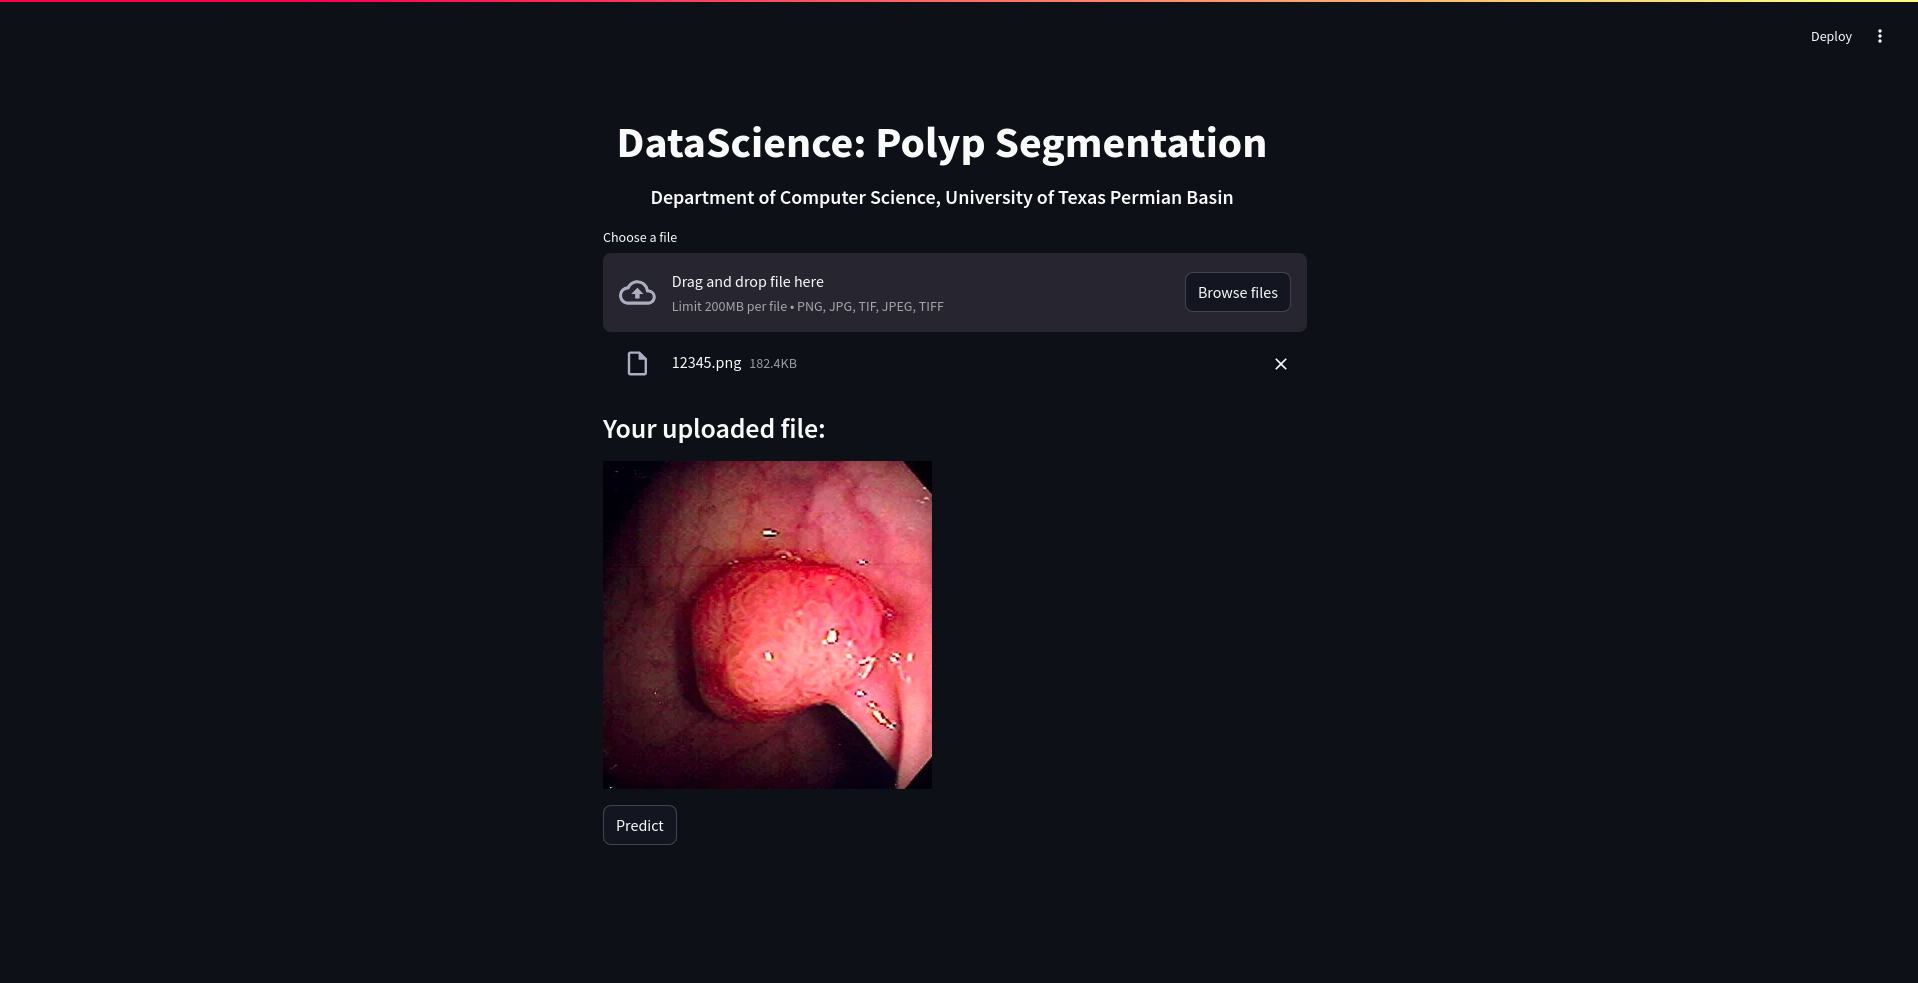
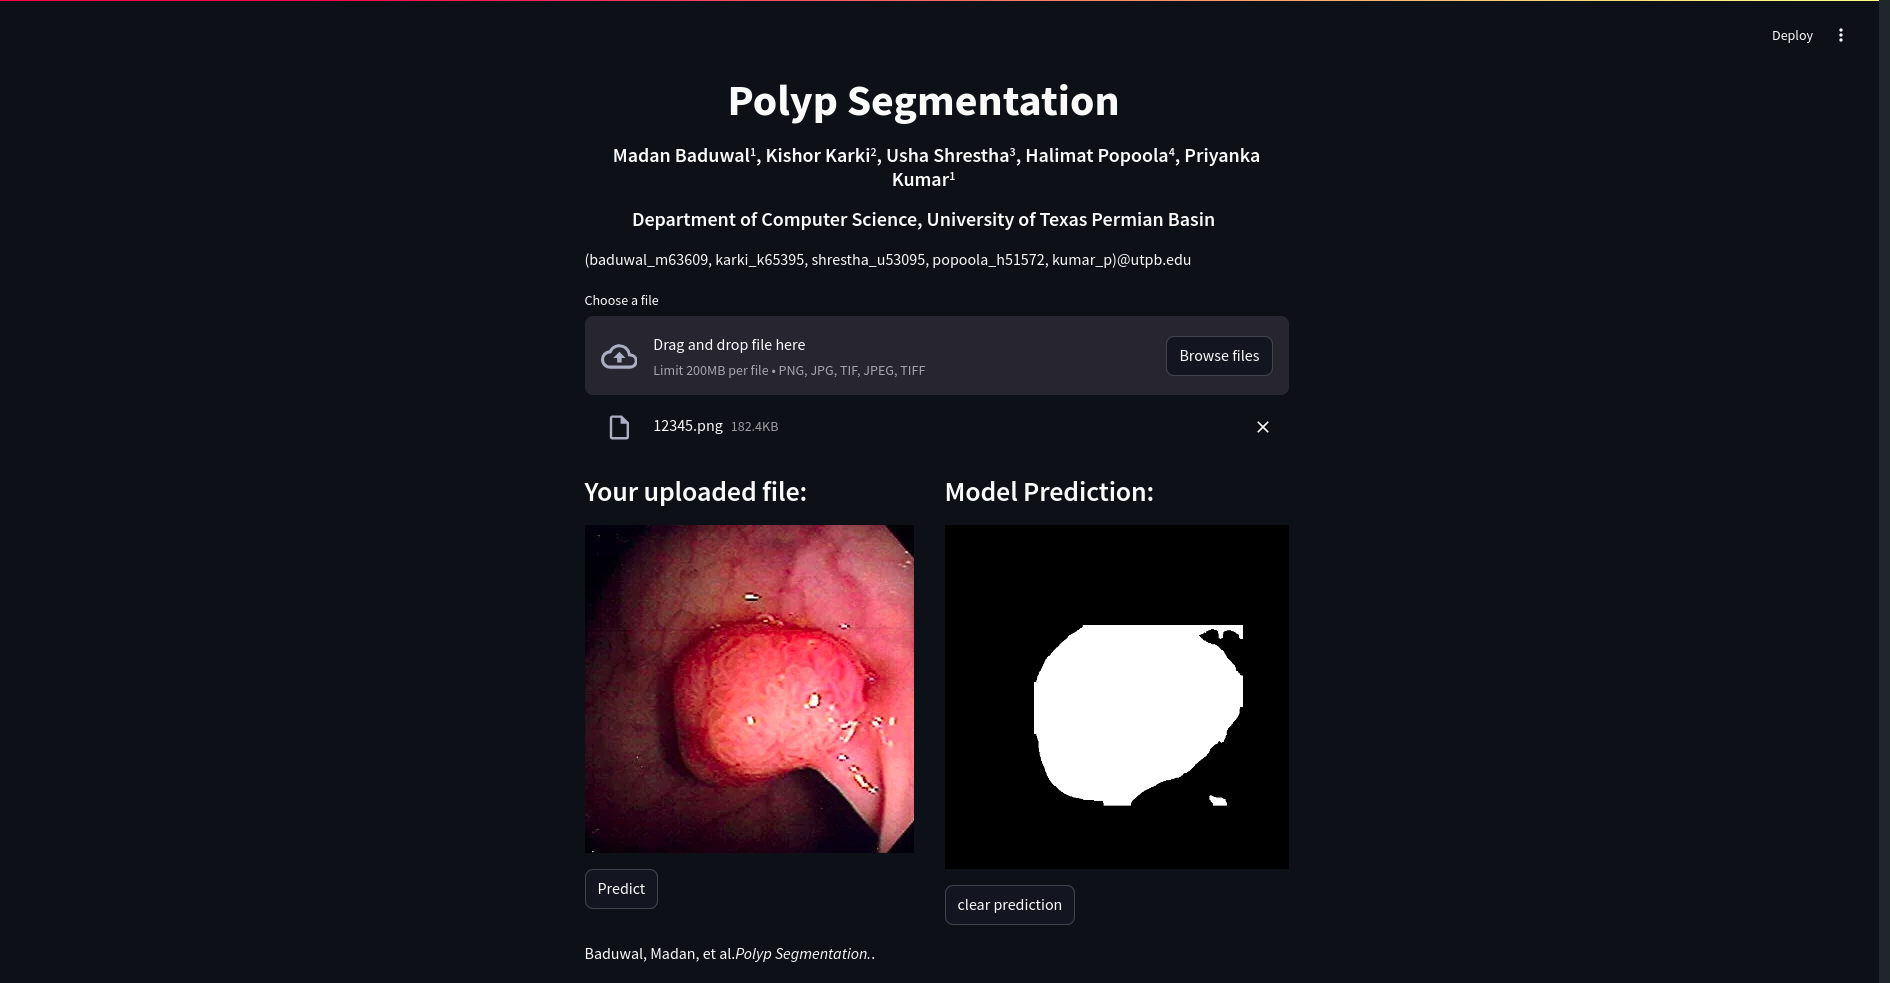
.

diff --git a/app.py b/app.py
@@ -1,13 +1,13 @@
 """
     Polyp segmentation
-    Madan Baduwal
+    @Madan Baduwal
 """
 
 import streamlit as st
 import numpy as np
 from PIL import Image
 from ultralytics import YOLO
-
+import cv2
 # from predict import predict
 # from unet import model
 
@@ -19,14 +19,14 @@ def predict(img):
     model_path = "./models/best.pt"
     model = YOLO(model_path)
     results = model(img)
-    print(f"Image tpye{results}")
     return results
 
 
 # model option
-st.markdown("<h1 style='text-align: center;'>DataScience: Polyp Segmentation</h1>", unsafe_allow_html=True)
+st.markdown("<h1 style='text-align: center;'>Polyp Segmentation</h1>", unsafe_allow_html=True)
+st.markdown("<h5 style='text-align: center;'>Madan Baduwal<sup>1</sup>, Kishor Karki<sup>2</sup>, Usha Shrestha<sup>3</sup>, Halimat Popoola<sup>4</sup>, Priyanka Kumar<sup>1</sup></h5>", unsafe_allow_html=True)
 st.markdown("<h5 style='text-align: center;'>Department of Computer Science, University of Texas Permian Basin</h5>", unsafe_allow_html=True)
-# st.markdown("<h5 style='text-align: center;'>baduwal_m63609@utpb.edu</h5>", unsafe_allow_html=True)
+st.markdown("<h9 style='text-align: center;'>(baduwal_m63609, karki_k65395, shrestha_u53095, popoola_h51572, kumar_p)@utpb.edu</h9>", unsafe_allow_html=True)
 
 
 
@@ -39,24 +39,21 @@ with col1:
     image_cache = st.container()
     if uploaded_file is not None:
         # convert image into np array
-        img = Image.open(uploaded_file).convert('RGB')
-        img_array = np.array(img)
-
-        # # check if the file is valid (3 * 256 * 256)
-        # if img_array.shape != (256, 256, 3):
-        #     st.write("Image size should be 256*256")
-        # else:
-        # display image
+        file_bytes = np.asarray(bytearray(uploaded_file.read()), dtype=np.uint8)
+        img_array = cv2.imdecode(file_bytes, 1)  # 1 means loading the image in color (BGR)
+        img_array = cv2.cvtColor(img_array, cv2.COLOR_BGR2RGB)
+        
         image_cache.subheader("Your uploaded file:")
+        print(img_array)
         image_cache.image(img_array)
 
         # store in streamlit session
         st.session_state.img_array = img_array
-        img_array = img_array / 255
     elif 'img_array' in st.session_state:
         img_array = st.session_state.img_array
         # display image
         image_cache.subheader("Your uploaded file:")
+        print(img_array)
         image_cache.image(img_array)
     img_pred_button = st.button('Predict')
 
@@ -65,23 +62,26 @@ with col2:
         if "img_array" not in st.session_state:
             st.write("You haven't upload any file!")
         else:
-            # get predicted mask image
             st.subheader("Model Prediction:")
-            pred_img = st.session_state.img_array / 255
+            pred_img = st.session_state.img_array 
             results = predict(pred_img)
-            # pred_mask = pred_mask[0].permute(1, 2, 0)
             
             
-            clear = st.button("clear prediction")
             for result in results:
                 for j, mask in enumerate(result.masks.data):
 
-                    mask = mask.numpy() * 255
+                    mask = mask.cpu().numpy()
                     st.session_state.pred_mask = mask
-                    st.image(mask.numpy())
+                    st.image(mask)
+            clear = st.button("clear prediction")
 
-                # mask = cv2.resize(mask, (W, H))
-            # clear prediction and content
             if clear:
                 del st.session_state.pred_maskl
                 img_pred_button = False
+
+# Citation
+st.markdown("""
+
+<p>Baduwal, Madan, et al.<i>Polyp Segmentation.</i>. 
+""", unsafe_allow_html=True)
+
